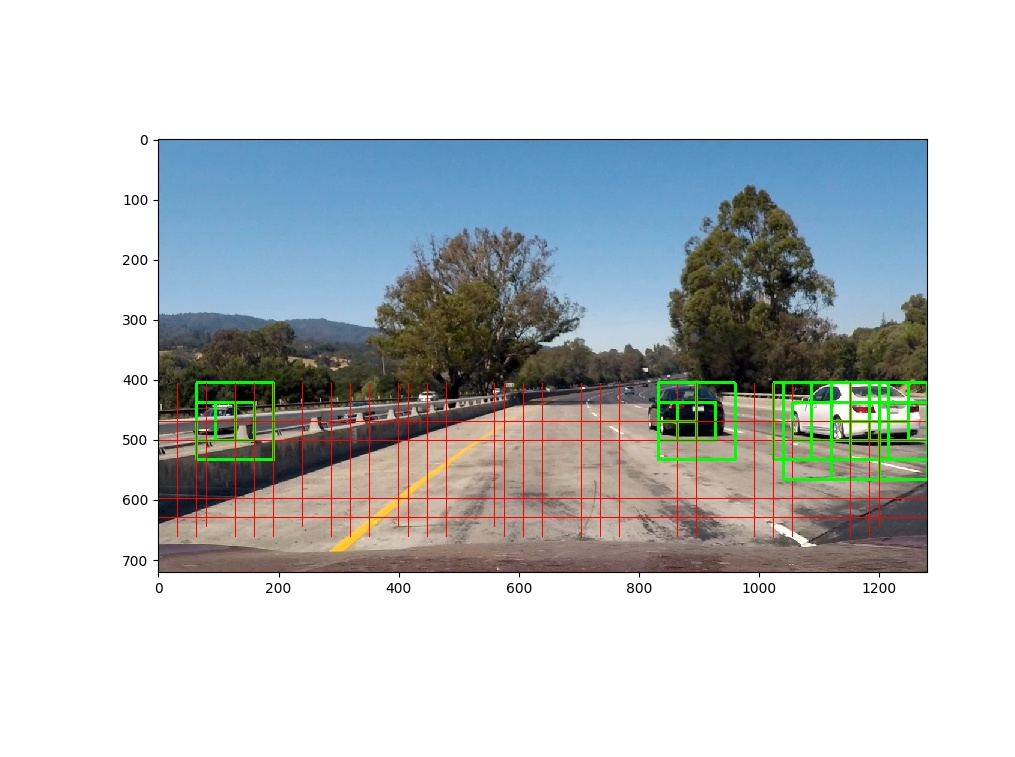
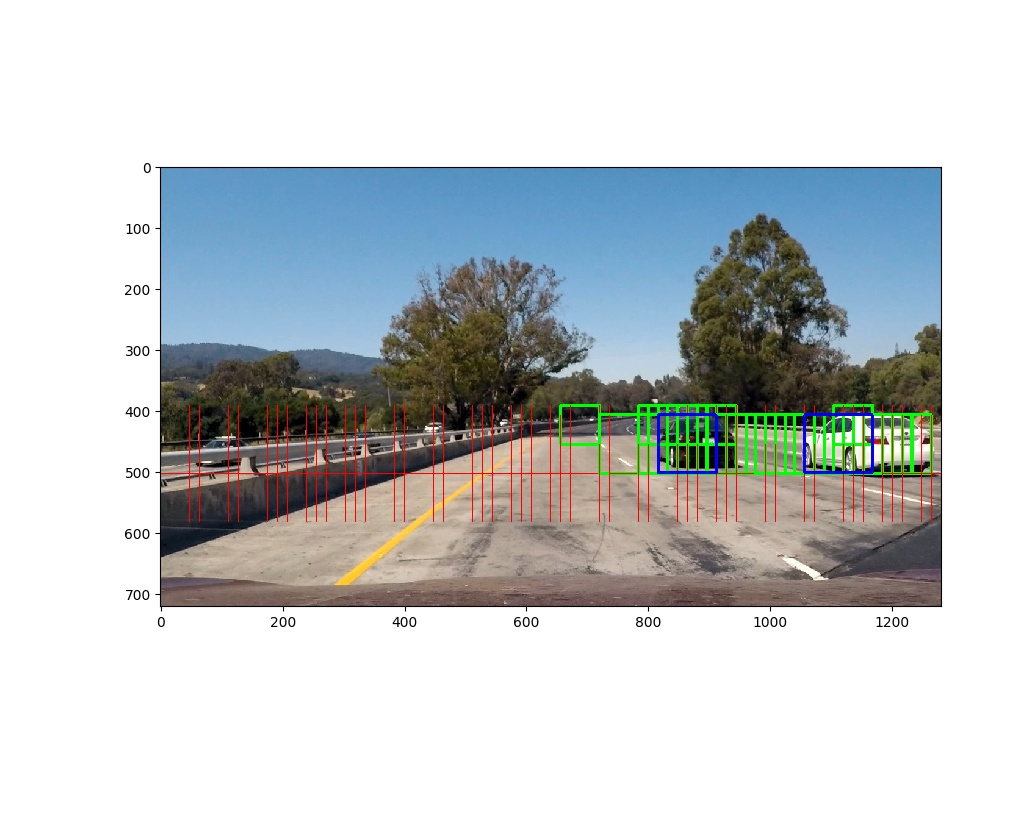
Updating reporting images

diff --git a/vehicle_detection/detector.py b/vehicle_detection/detector.py
@@ -15,11 +15,12 @@ class Detector:
     X_OVERLAP = 16
     Y_OVERLAP = [16, 48, 64]
 
-    HEATMAP_THRESHOLD = 4
+    HEATMAP_THRESHOLD = 3
+    HEATMAP_DECAY_DELAY = 5
     HEATMAP_DECAY = 1
 
 
-    def __init__(self, classifier, show_predicted=True):
+    def __init__(self, classifier, show_predicted=False):
         self.classifier = classifier
 
         self.heatmap = None
@@ -79,11 +80,14 @@ class Detector:
         for window in vehicle_windows:
             self.heatmap[window[0][1]:window[1][1], window[0][0]:window[1][0]] += 1
 
-        self.heatmap -= self.HEATMAP_DECAY
+        if self.frames > self.HEATMAP_DECAY_DELAY:
+            self.heatmap[self.heatmap > self.HEATMAP_THRESHOLD] -= self.HEATMAP_DECAY
 
     def _get_estimated_positions(self):
         thresholded_heatmap = self.heatmap.copy()
         thresholded_heatmap[thresholded_heatmap <= self.HEATMAP_THRESHOLD] = 0
+
+        #plotter.Plotter(True).plot_images(thresholded_heatmap)
 
         found = []
         positions, num_objects = label(thresholded_heatmap)
